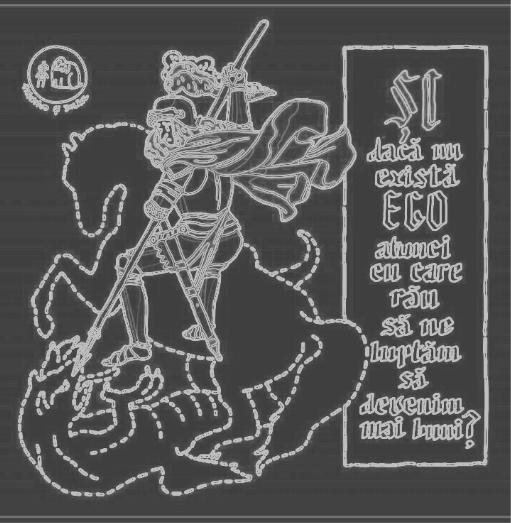
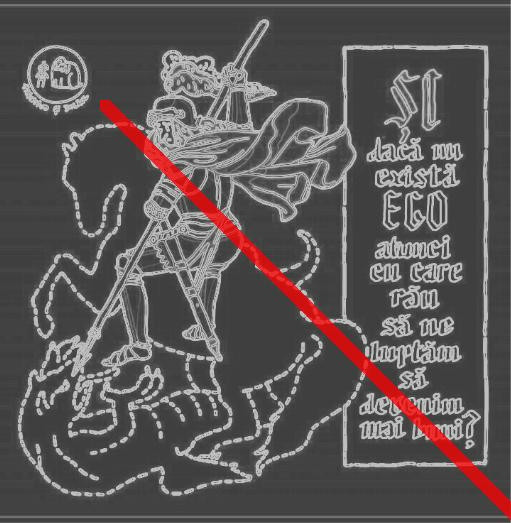
Added simple path and line implementation

Changed region(s): [[0.1761, 0.1836, 1.0, 1.0]]

diff --git a/src/main/lib/render/line.go b/src/main/lib/render/line.go
@@ -1,0 +1,119 @@
+package render
+
+import (
+	core ".."
+	"../geometry"
+	"../utils"
+	"fmt"
+	"image"
+	"image/draw"
+	"math"
+)
+
+type Line struct {
+	core.Base
+	path     geometry.Path
+	renderer Renderer
+}
+
+func (l *Line) Render(bounds image.Rectangle) *core.Promise {
+	// create a proximity map in order to save how far is each
+	// pixel from the path used to render the line
+	proximityMap := make([][]int, bounds.Dy())
+	for i := 0; i < bounds.Dy(); i++ {
+		proximityMap[i] = make([]int, bounds.Dx())
+	}
+
+	// create a queue of closest pixels to the path
+	queue := make([]image.Point, 0)
+	for i := 0.0; i < 1.0; i += 0.01 {
+		// approximate the pixel coordinates
+		p := l.path.GetPoint(i)
+		y := int(math.Floor(p.Y))
+		x := int(math.Floor(p.X))
+
+		// reduce redundancy in the queue loop
+		if proximityMap[y][x] == 0 {
+			queue = append(queue, image.Pt(x, y))
+		}
+
+		// set base value for the closest pixels to the paths
+		proximityMap[y][x] = 1
+	}
+
+	// iterate through the queued pixels
+	for len(queue) > 0 {
+		p := queue[0]
+		queue = queue[1:]
+
+		// obtain Von Neumann neighbours
+		neighbours := make([]image.Point, 0)
+		if inRectangle(p.X, p.Y-1, bounds) {
+			neighbours = append(neighbours, image.Pt(p.X, p.Y-1))
+		}
+		if inRectangle(p.X-1, p.Y, bounds) {
+			neighbours = append(neighbours, image.Pt(p.X-1, p.Y))
+		}
+		if inRectangle(p.X+1, p.Y, bounds) {
+			neighbours = append(neighbours, image.Pt(p.X+1, p.Y))
+		}
+		if inRectangle(p.X, p.Y+1, bounds) {
+			neighbours = append(neighbours, image.Pt(p.X, p.Y+1))
+		}
+
+		// compute proximity value for current pixel based on
+		// highest value among the neighbours
+		if proximityMap[p.Y][p.X] == 0 {
+			max := 0
+			for _, n := range neighbours {
+				if max < proximityMap[n.Y][n.X] {
+					max = proximityMap[n.Y][n.X]
+				}
+			}
+
+			proximityMap[p.Y][p.X] = max + 1
+		}
+
+		// when the limit width has been reached, there won't
+		// be any new neighbours added in the queue
+		if proximityMap[p.Y][p.X] == l.renderer.Width() {
+			continue
+		}
+
+		// add unexplored neighbouring pixels in the queue
+		for _, n := range neighbours {
+			if proximityMap[n.Y][n.X] == 0 {
+				queue = append(queue, n)
+			}
+		}
+	}
+
+	ret := utils.CreateRGBA(bounds)
+	contract := l.GetEngine().Contract(bounds.Dy())
+
+	for i := bounds.Min.Y; i < bounds.Max.Y; i++ {
+		y := i
+		if err := contract.PlaceOrder(func() {
+			for x := bounds.Min.X; x < bounds.Max.X; x++ {
+				ret.(draw.Image).Set(x, y, l.renderer.Render(proximityMap[y][x]))
+			}
+		}); err != nil {
+			fmt.Print(err)
+			break
+		}
+	}
+
+	return core.NewPromise(ret, contract)
+}
+
+func inRectangle(x, y int, rect image.Rectangle) bool {
+	return x >= rect.Min.X && x <= rect.Max.X && y >= rect.Min.Y && y <= rect.Max.Y
+}
+
+func NewLine(path geometry.Path, renderer Renderer) *Line {
+	l := new(Line)
+	l.path = path
+	l.renderer = renderer
+
+	return l
+}

diff --git a/src/main/lib/effect/overlay/overlay.go b/src/main/lib/effect/overlay/overlay.go
@@ -14,16 +14,16 @@ import (
 // Overlay encapsulates the data needed to apply an overlay image
 type Overlay struct {
 	core.Base
-	Stamp   image.Image
-	Origin  position.Position
-	Opacity float64
+	stamp   image.Image
+	origin  position.Position
+	opacity float64
 }
 
 func (effect *Overlay) Apply(img image.Image) *core.Promise {
 	ret := utils.CreateRGBA(img.Bounds())
 	contract := effect.GetEngine().Contract(img.Bounds().Dy())
-	stampBounds := effect.Stamp.Bounds()
-	origin := effect.Origin.Get(img.Bounds())
+	stampBounds := effect.stamp.Bounds()
+	origin := effect.origin.Get(img.Bounds())
 
 	for i := img.Bounds().Min.Y; i < img.Bounds().Max.Y; i++ {
 		y := i
@@ -36,12 +36,12 @@ func (effect *Overlay) Apply(img image.Image) *core.Promise {
 					continue
 				}
 
-				or, og, ob, oa := effect.Stamp.At(x-origin.X, y-origin.Y).RGBA()
+				or, og, ob, oa := effect.stamp.At(x-origin.X, y-origin.Y).RGBA()
 
 				if oa == 0 {
 					ret.(draw.Image).Set(x, y, img.At(x, y))
 				} else {
-					opacity := utils.LERP(float64(oa)/utils.MaxUint16, 0.0, effect.Opacity)
+					opacity := utils.LERP(float64(oa)/utils.MaxUint16, 0.0, effect.opacity)
 
 					if opacity == utils.MaxUint16 {
 						ret.(draw.Image).Set(x, y, color.RGBA64{R: uint16(or), G: uint16(og), B: uint16(ob)})
@@ -68,4 +68,13 @@ func (effect *Overlay) Apply(img image.Image) *core.Promise {
 	}
 
 	return core.NewPromise(ret, contract)
+}
+
+func NewOverlay(stamp image.Image, origin position.Position, opacity float64) *Overlay {
+	o := new(Overlay)
+	o.stamp = stamp
+	o.origin = origin
+	o.opacity = opacity
+
+	return o
 }

diff --git a/src/main/main.go b/src/main/main.go
@@ -9,7 +9,11 @@ import (
 	. "./lib/analysis"
 	. "./lib/effect/filter"
 	. "./lib/effect/normalization"
+	. "./lib/effect/overlay"
 	. "./lib/effect/scale"
+	. "./lib/geometry"
+	. "./lib/position"
+	. "./lib/render"
 	. "./lib/utils"
 )
 
@@ -40,7 +44,7 @@ func main() {
 		CornerPixelsSampling)
 	s.TransferTo(ke)
 	p2 := s.Apply(p1.Result())
-	res := p2.Result()
+	tmp := p2.Result()
 
 	data := NewAnalyzerRunner([]Analyze{func(img image.Image, x int, y int, m map[string]interface{}) {
 		val, _, _, _ := color.Gray16Model.Convert(img.At(x, y)).RGBA()
@@ -60,17 +64,29 @@ func main() {
 		} else {
 			m["max"] = val
 		}
-	}}).Run(res)
-
-	fmt.Println(data)
+	}}).Run(tmp)
 
 	n := NewNormalization(
 		NewColorInterval(data["min"].(uint32), data["max"].(uint32)),
 		NewColorInterval(MaxUint16/4, MaxUint16/4*3))
 	n.TransferTo(ke)
-	p3 := n.Apply(res)
+	p3 := n.Apply(tmp)
 
-	if err := Save(p3.Result(), "../resources/result", "jpg"); err != nil {
+	path := NewSegment(NewPoint2D(0, 0), NewPoint2D(500, 500))
+	line := NewLine(path, NewSimpleLineRenderer(10, color.RGBA{
+		R: 255,
+		G: 0,
+		B: 0,
+		A: 255,
+	}))
+	line.TransferTo(ke)
+	p4 := line.Render(image.Rect(0, 0, 600, 600))
+
+	o := NewOverlay(p4.Result(), NewFixedPosition(100, 100), 0.75)
+	o.TransferTo(ke)
+	p5 := o.Apply(p3.Result())
+
+	if err := Save(p5.Result(), "../resources/result", "jpg"); err != nil {
 		fmt.Println(err.Error())
 	}
 

diff --git a/src/main/lib/geometry/path.go b/src/main/lib/geometry/path.go
@@ -1,0 +1,37 @@
+package geometry
+
+import (
+	"../utils"
+)
+
+type Path interface {
+	GetPoint(float64) *utils.Point2D
+	GetStart() *utils.Point2D
+	GetEnd() *utils.Point2D
+}
+
+type Segment struct {
+	start, end *utils.Point2D
+}
+
+func (s Segment) GetPoint(t float64) *utils.Point2D {
+	return utils.NewPoint2D(
+		(1-t)*s.start.X+t*s.end.X,
+		(1-t)*s.start.Y+t*s.end.Y)
+}
+
+func (s Segment) GetStart() *utils.Point2D {
+	return s.start
+}
+
+func (s Segment) GetEnd() *utils.Point2D {
+	return s.end
+}
+
+func NewSegment(start, end *utils.Point2D) *Segment {
+	s := new(Segment)
+	s.start = start
+	s.end = end
+
+	return s
+}

diff --git a/src/main/lib/render/renderer.go b/src/main/lib/render/renderer.go
@@ -1,0 +1,33 @@
+package render
+
+import "image/color"
+
+type Renderer interface {
+	Width() int
+	Render(int) color.Color
+}
+
+type SimpleLineRenderer struct {
+	width int
+	color color.Color
+}
+
+func (r SimpleLineRenderer) Width() int {
+	return r.width
+}
+
+func (r SimpleLineRenderer) Render(proximity int) color.Color {
+	if proximity != 0 {
+		return r.color
+	}
+
+	return color.Transparent
+}
+
+func NewSimpleLineRenderer(width int, color color.Color) *SimpleLineRenderer {
+	r := new(SimpleLineRenderer)
+	r.width = width
+	r.color = color
+
+	return r
+}

diff --git a/src/main/lib/utils/point.go b/src/main/lib/utils/point.go
@@ -1,0 +1,13 @@
+package utils
+
+type Point2D struct {
+	X, Y float64
+}
+
+func NewPoint2D(X, Y float64) *Point2D {
+	p := new(Point2D)
+	p.X = X
+	p.Y = Y
+
+	return p
+}
